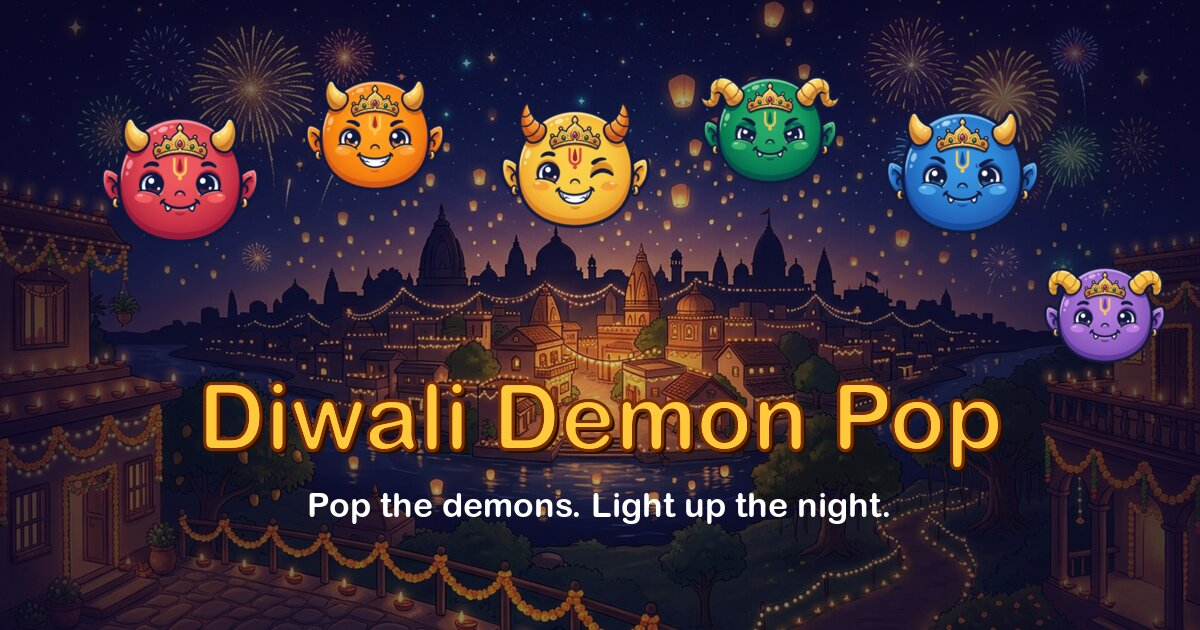
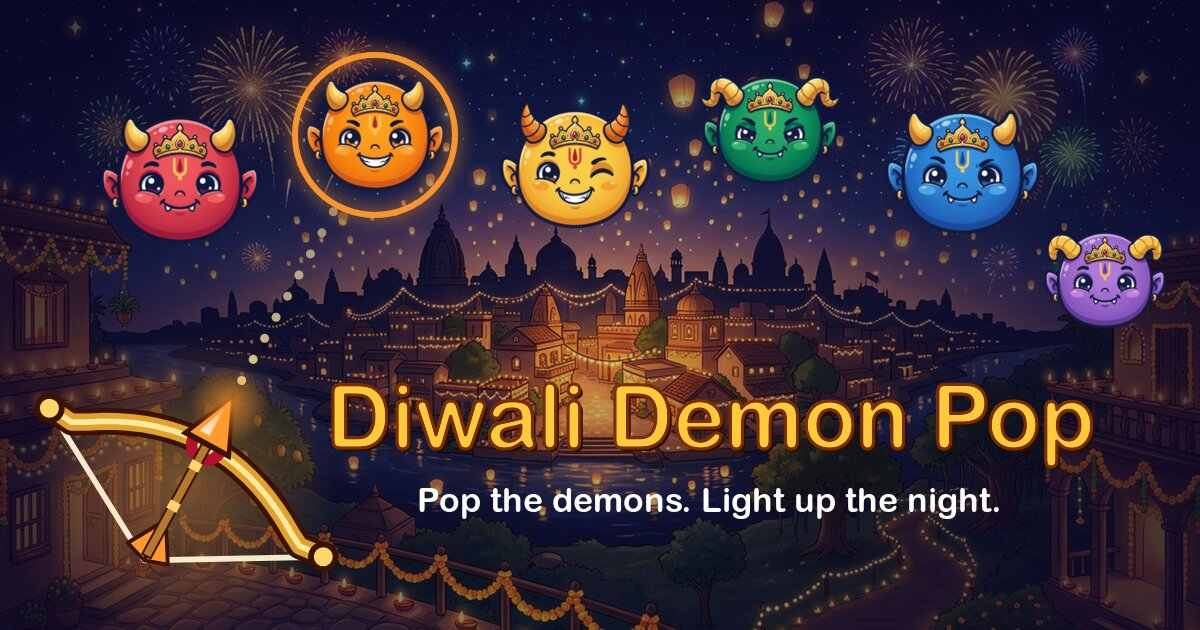
Add bow and arrow to the share image

diff --git a/tools/og-overlay.html b/tools/og-overlay.html
@@ -1,0 +1,83 @@
+<!doctype html>
+<!-- Transparent 1200x630 overlay for the share image: the bow drawn back with a loaded arrow, aimed at the
+     orange demon. Geometry mirrors buildTextures() and drawBow() in src/game.js. Rendered by make-og-image.sh. -->
+<html>
+<body style="margin:0;background:transparent">
+<canvas id="c" width="1200" height="630"></canvas>
+<script>
+const ctx = document.getElementById('c').getContext('2d');
+const hex = (n, a = 1) => `rgba(${n >> 16},${(n >> 8) & 255},${n & 255},${a})`;
+const GOLD = 0xffd56b, DARK = 0x3a1300, ORANGE = 0xff9a2e, ARROW_LEN = 100;
+
+const BOW = { x: 185, y: 485 }, SCALE = 1.9, PULL = 0.85;
+const TARGET = { x: 375, y: 135 };   // orange demon's center in the composed image
+const a = Math.atan2(TARGET.y - BOW.y, TARGET.x - BOW.x);
+const cos = Math.cos(a), sin = Math.sin(a);
+const P = (lx, ly) => ({ x: BOW.x + SCALE * (lx * cos - ly * sin), y: BOW.y + SCALE * (lx * sin + ly * cos) });
+
+function glow(x, y, r, color, alpha) {
+  const g = ctx.createRadialGradient(x, y, 0, x, y, r);
+  g.addColorStop(0, hex(color, alpha)); g.addColorStop(1, hex(color, 0));
+  ctx.fillStyle = g; ctx.beginPath(); ctx.arc(x, y, r, 0, Math.PI * 2); ctx.fill();
+}
+
+// Aim guide: gold dots from the arrow tip to a ring around the target, like the in-game guide.
+const tip = P(-6 - PULL * 46 + ARROW_LEN - 6, 0);
+const dist = Math.hypot(TARGET.x - tip.x, TARGET.y - tip.y) - 78;
+for (let d = 26; d < dist; d += 24) {
+  const t = d / dist;
+  ctx.fillStyle = hex(0xffe9a0, 0.9 - t * 0.4);
+  ctx.beginPath(); ctx.arc(tip.x + cos * d, tip.y + sin * d, 4.5, 0, Math.PI * 2); ctx.fill();
+}
+ctx.lineWidth = 6; ctx.strokeStyle = hex(ORANGE, 0.95);
+ctx.shadowColor = hex(ORANGE); ctx.shadowBlur = 18;
+ctx.beginPath(); ctx.arc(TARGET.x, TARGET.y, 80, 0, Math.PI * 2); ctx.stroke();
+ctx.shadowBlur = 0;
+
+glow(BOW.x, BOW.y, 150, 0xffa83a, 0.45);
+
+// Bow string and limb.
+const limb = [];
+for (let i = 0; i <= 24; i++) {
+  const t = -1 + (2 * i) / 24;
+  const recurve = Math.abs(t) > 0.82 ? (Math.abs(t) - 0.82) * 70 : 0;
+  limb.push(P(30 * (1 - t * t) - 6 + recurve - PULL * 6 * t * t, 82 * t));
+}
+const tipA = limb[0], tipB = limb[limb.length - 1];
+const nock = P(-6 - PULL * 46, 0);
+ctx.lineCap = ctx.lineJoin = 'round';
+ctx.lineWidth = 3 * SCALE; ctx.strokeStyle = hex(0xfff3d6, 0.95);
+ctx.beginPath(); ctx.moveTo(tipA.x, tipA.y); ctx.lineTo(nock.x, nock.y); ctx.lineTo(tipB.x, tipB.y); ctx.stroke();
+
+[[14, 0x3a1300], [9, 0xe2a12b], [3, 0xffe9a0]].forEach(([w, col]) => {
+  ctx.lineWidth = w * SCALE; ctx.strokeStyle = hex(col);
+  ctx.beginPath(); limb.forEach((p, i) => (i ? ctx.lineTo(p.x, p.y) : ctx.moveTo(p.x, p.y))); ctx.stroke();
+});
+const dot = (p, r, c) => { ctx.fillStyle = hex(c); ctx.beginPath(); ctx.arc(p.x, p.y, r * SCALE, 0, Math.PI * 2); ctx.fill(); };
+const grip = P(24, 0);
+dot(grip, 11, 0xb3122e); dot(grip, 5, GOLD);
+[tipA, tipB].forEach((p) => { dot(p, 8, DARK); dot(p, 5, GOLD); });
+
+// Loaded arrow (drawn in its own frame: nock at the origin, pointing along +x).
+ctx.save();
+ctx.translate(nock.x, nock.y); ctx.rotate(a); ctx.scale(SCALE, SCALE);
+const tri = (pts, fill, stroke) => {
+  ctx.beginPath(); ctx.moveTo(...pts[0]); ctx.lineTo(...pts[1]); ctx.lineTo(...pts[2]); ctx.closePath();
+  if (fill) { ctx.fillStyle = fill; ctx.fill(); }
+  if (stroke) { ctx.lineWidth = 2; ctx.strokeStyle = stroke; ctx.stroke(); }
+};
+const head = ARROW_LEN - 30;
+tri([[0, 0], [24, 0], [4, -12]], hex(ORANGE), hex(DARK));
+tri([[0, 0], [24, 0], [4, 12]], hex(ORANGE), hex(DARK));
+ctx.fillStyle = hex(DARK); ctx.fillRect(2, -3, head, 6);
+ctx.fillStyle = hex(0xb7792f); ctx.fillRect(3, -2, head - 2, 4);
+ctx.fillStyle = hex(GOLD); ctx.fillRect(30, -3, 5, 6); ctx.fillRect(54, -3, 5, 6);
+tri([[head - 2, -15], [ARROW_LEN, 0], [head - 2, 15]], hex(DARK));
+tri([[head + 1, -11], [ARROW_LEN - 4, 0], [head + 1, 11]], hex(ORANGE));
+tri([[head + 4, -7], [ARROW_LEN - 10, -1], [head + 4, -1]], 'rgba(255,255,255,0.75)');
+ctx.restore();
+
+glow(tip.x, tip.y, 40, ORANGE, 0.7);
+</script>
+</body>
+</html>
